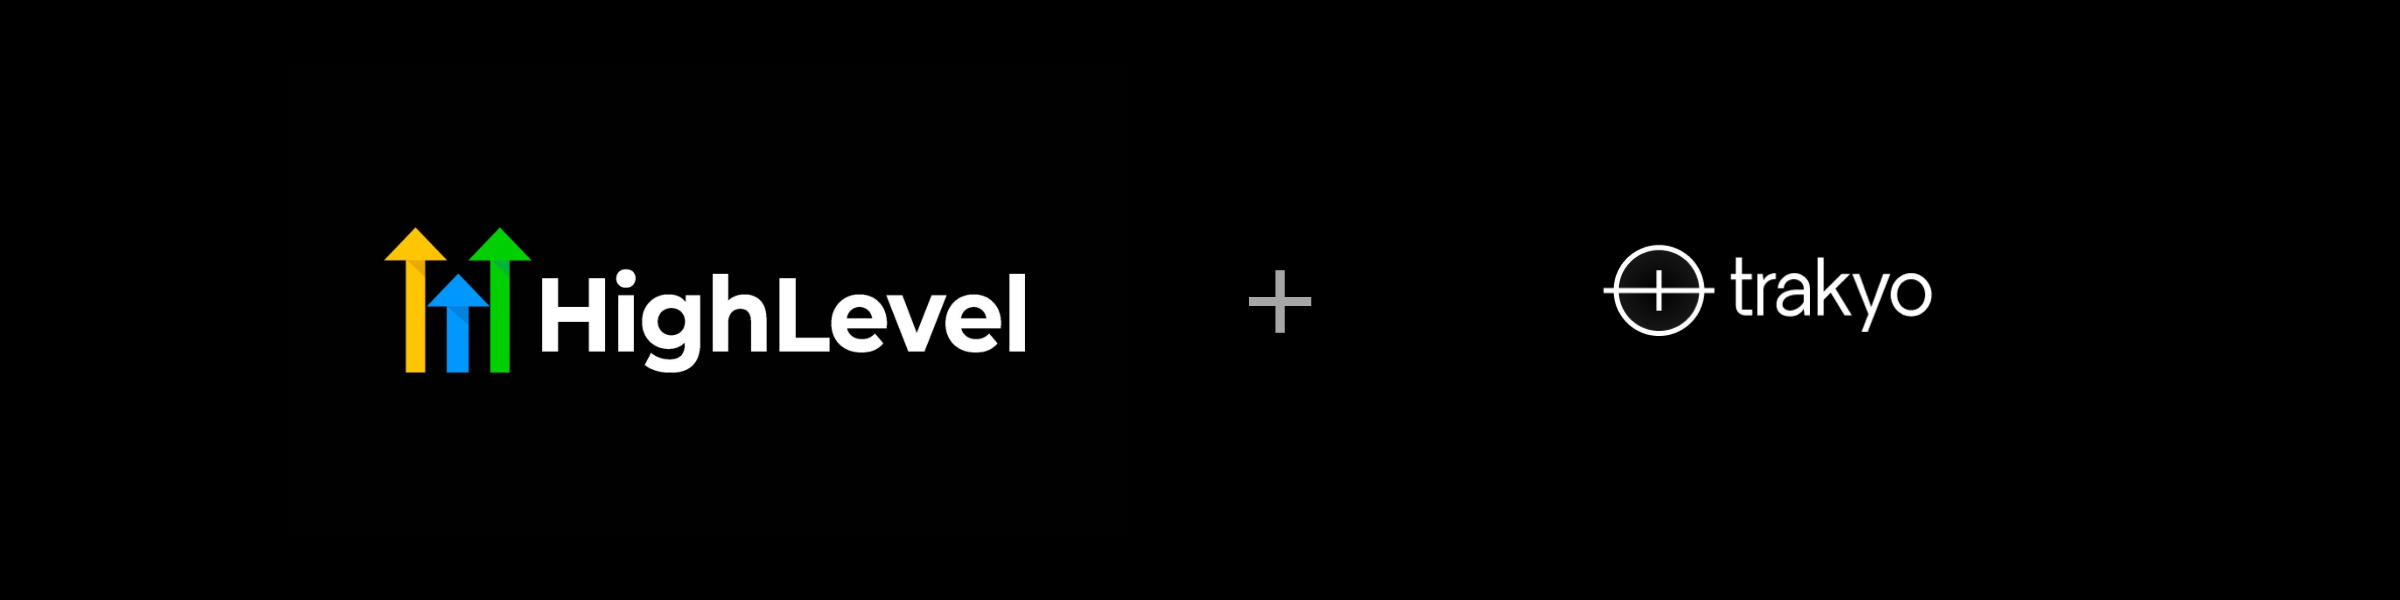
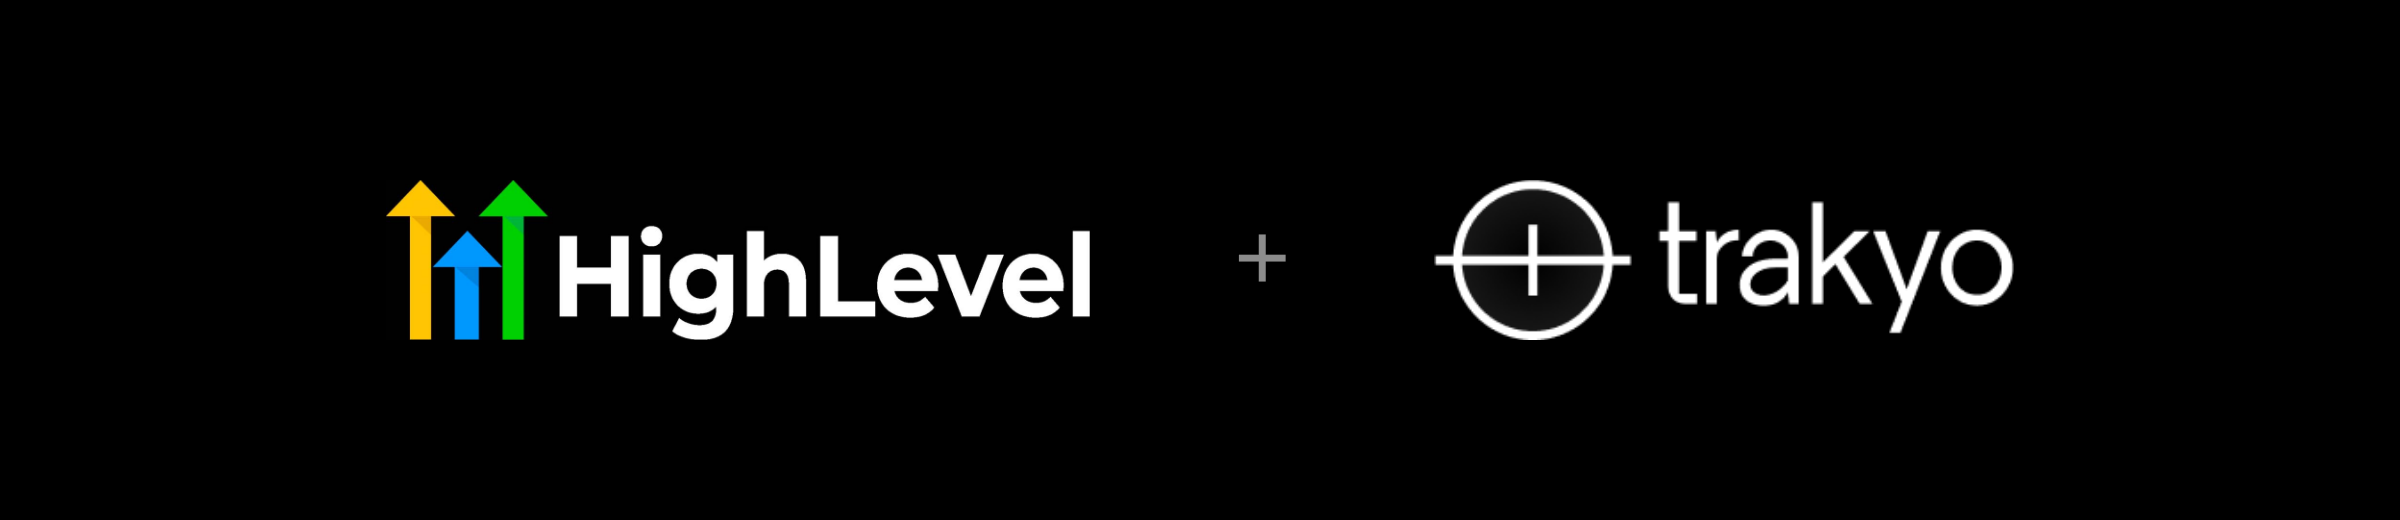
GoHighLevel: forms section reworked, pictures centred, rules between sections
The banner is rebuilt with both logos at the same artwork height, measured
from their pixels rather than guessed. Form configuration now starts from
Sites → Forms, Option B starts by selecting the form, and the trakyo_id
screenshot sits under both options with a tip about schedulers needing
their own form. The form workflow follows the real order, with the webhook
settings as a sub-list.

Pictures are centred for the whole site through theme.customCss, since
Markdown cannot say it and a raw <img> breaks under /docs. AGENTS.md gains
all three rules: centred pictures, equal logo heights, and --- between
sections.

Claude-Session: https://claude.ai/code/session_01N1HajqS6KdiU7SCZLHPcXK

Changed region(s): [[0.1562, 0.3385, 0.4688, 0.6769], [0.5938, 0.3385, 0.8438, 0.6769], [0.5, 0.4615, 0.5625, 0.5538]]

diff --git a/zudoku.config.tsx b/zudoku.config.tsx
@@ -147,6 +147,13 @@ const config: ZudokuConfig = {
       },
 
   theme: {
+    // Pictures in an article sit centred in the column, whatever their width.
+    // Markdown has no way to say that, and a raw <img> tag breaks under /docs,
+    // so it is one rule here rather than markup in every article.
+    customCss: `
+      .prose img { display: block; margin-inline: auto; }
+    `,
+
     // The dashboard's shadcn palette with the docs-blue accent. Two deliberate
     // deviations: primary/ring are the docs blue (the app is neutral), and
     // dark `card` is lifted to 5.5% (vs the app's 3.9%) so cards read as

diff --git a/pages/help/integrations/gohighlevel.md b/pages/help/integrations/gohighlevel.md
@@ -22,6 +22,8 @@ It does not cover configuring your GoHighLevel funnels, or adding the tracking s
 pages built on GHL — that is in the Custom Domains article.
 :::
 
+---
+
 ## Connect GHL with Trakyo
 
 Open the **[Integrations](https://app.trakyo.io/integrations)** page in **Trakyo** and find
@@ -34,19 +36,25 @@ the GoHighLevel card to start.
 
 _[Screenshot: the GoHighLevel Forms Integration window, step 1]_
 
+---
+
 ## Forms - configuration and workflow automation setup
 
-Every form that should feed **Trakyo** needs one hidden field carrying the visitor id, and
-one workflow that sends the submission over.
+Every form that should feed **Trakyo** needs one hidden field carrying the visitor id — the
+fingerprint — and one workflow that sends the submission over with the `trakyo_id`.
 
-### Option A: you do not have a form yet
+### Form configuration
 
-1. In GoHighLevel, click **Sites** in the left sidebar.
-2. Click **Forms** in the top navigation, then **+ Add Form**.
-3. Choose **Start from Scratch**.
-4. Add your standard fields: First Name, Last Name, Email, Phone.
-5. Click **Add**, choose **Custom Fields**, and pick **Single Line** as the field type.
-6. Fill the field settings in exactly — they are case-sensitive:
+In GoHighLevel, click **Sites** in the left sidebar and click **Forms** in the top
+navigation to start:
+
+#### Option A: you do not have a form yet
+
+1. Click **+ Add Form**.
+2. Choose **Start from Scratch**.
+3. Add your standard fields: First Name, Last Name, Email, Phone.
+4. Click **Add**, choose **Custom Fields**, and pick **Single Line** as the field type.
+5. Fill the field settings in exactly — they are case-sensitive:
 
 :::note
 Name = `trakyo_id`
@@ -57,33 +65,35 @@ Prefill = `trakyo_id`
 Unique Key = `contact.trakyo_id`
 :::
 
-7. Click the `trakyo_id` field, tick **Hidden**, and set the Hidden Value to `trakyo_id`.
+6. Click the `trakyo_id` field, tick **Hidden**, and set the Hidden Value to `trakyo_id`.
 
-_[Screenshot: the trakyo_id custom field settings]_
+#### Option B: you already have a form
 
-### Option B: you already have a form
+1. Select the form you want to configure.
+2. Click **Add**, choose **Custom Fields**, and pick **Single Line** as the field type.
+3. Fill in the same settings as above, exactly.
+4. Click the `trakyo_id` field, tick **Hidden**, and set the Hidden Value to `trakyo_id`.
 
-1. Click **Add**, choose **Custom Fields**, and pick **Single Line**.
-2. Fill in the same settings as above, exactly.
-3. Tick **Hidden** on the field and set the Hidden Value to `trakyo_id`.
+![The trakyo_id field in the GoHighLevel form editor](./ghl-form-trakyo-id.webp)
 
-### Form workflow
-
-1. Go to **Automation** → **Workflows**.
-2. Click **Create Workflow**, then **Add Trigger**, and select **Form Submitted**.
-3. Click **+** below the trigger and select **Webhook**.
-4. Configure it:
-
-:::note
-Action Name = `Form Submitted to Trakyo`
-Webhook URL = `https://app.trakyo.io/api/platforms/ghlevel/webhook`
-Method = `POST`
-Custom Data Field (key) = `type`
-Custom Data Field (value) = `FormCreate`
+:::tip
+Schedulers are tracked through a form too. A calendar has to have a custom form assigned to
+it, built exactly as above, so the `trakyo_id` field travels with the booking.
 :::
 
-5. Back in the trigger, under **Filters**, click **Add Filters** and choose the forms to
-   track. Leave it empty and every form is tracked.
+### Form workflow automation setup
+
+1. Go to **Automation** → **Workflows** to start.
+2. Click **Create Workflow**, then **Add Trigger** → **Form Submitted**.
+3. Under **Filters**, click **Add Filters** and choose the forms to track. Leave it empty
+   and every form is tracked.
+4. Click **+** below the trigger and select **Webhook**.
+5. Configure it as follows:
+   1. Action Name = `Form Submitted to Trakyo`
+   2. Webhook URL = `https://app.trakyo.io/api/platforms/ghlevel/webhook`
+   3. Method = `POST`
+   4. Custom Data Field (key) = `type`
+   5. Custom Data Field (value) = `FormCreate`
 6. Toggle the workflow from **Draft** to public, and click **Save**.
 
 _[Screenshot: the webhook action settings]_
@@ -93,6 +103,8 @@ One workflow can carry all four. Open a workflow, click **Add New Trigger** next
 existing trigger, and add **Survey Submitted** or **Quiz Submitted**. Every trigger fires
 independently and they all share the same webhook, so there is nothing else to change.
 :::
+
+---
 
 ## Survey - configuration and workflow automation setup
 
@@ -112,6 +124,8 @@ Custom Data Field (value) = `FormCreate`
 5. Under **Filters**, choose which surveys to track, or leave it empty for all of them.
 6. Toggle to public and click **Save**.
 
+---
+
 ## Quiz - configuration and workflow automation setup
 
 1. Go to **Automation** → **Workflows** and click **Create Workflow**.
@@ -128,6 +142,8 @@ Custom Data Field (value) = `FormCreate`
 :::
 
 5. Toggle to public and click **Save**.
+
+---
 
 ## Calendar - configuration and workflow automation setup
 
@@ -161,6 +177,8 @@ Custom Data Field (value) = `AppointmentCreate`
     `trakyo_id` field.
 
 _[Screenshot: the calendar webhook settings]_
+
+---
 
 ## Check it worked
 

diff --git a/AGENTS.md b/AGENTS.md
@@ -23,7 +23,14 @@ This is the public docs site at trakyo.io/docs, built with Zudoku. Read README.m
   behaves, ask the writer to check in the app rather than guessing. Never describe beta or
   unreleased features: this repository and site are public.
 - Pictures: `![What it shows](./file-name.png)`, the file in the same folder as the article.
-  Never `<img>` tags. Never HTML comments (`<!-- -->`): they fail the build.
+  Never `<img>` tags. Never HTML comments (`<!-- -->`): they fail the build. Every picture
+  is centred in the column by the site itself (`theme.customCss` in `zudoku.config.tsx`),
+  so never add alignment markup.
+- A picture pairing two logos (an integration banner) shows both at the **same artwork
+  height**, measured from the artwork itself, not from the file's own padding. Centre them
+  on a plain background with a `+` between.
+- Separate the sections of an article with `---` on its own line between them, including
+  before the first one.
 - Videos: paste the YouTube or Loom embed `<iframe>`; never commit video files.
 - Callouts: `:::tip`, `:::note`, `:::warning`, `:::danger`, closed by `:::` on its own line.
 - Links to other docs pages start with `/docs/` (e.g. `/docs/help/integrations/connect-stripe`).
